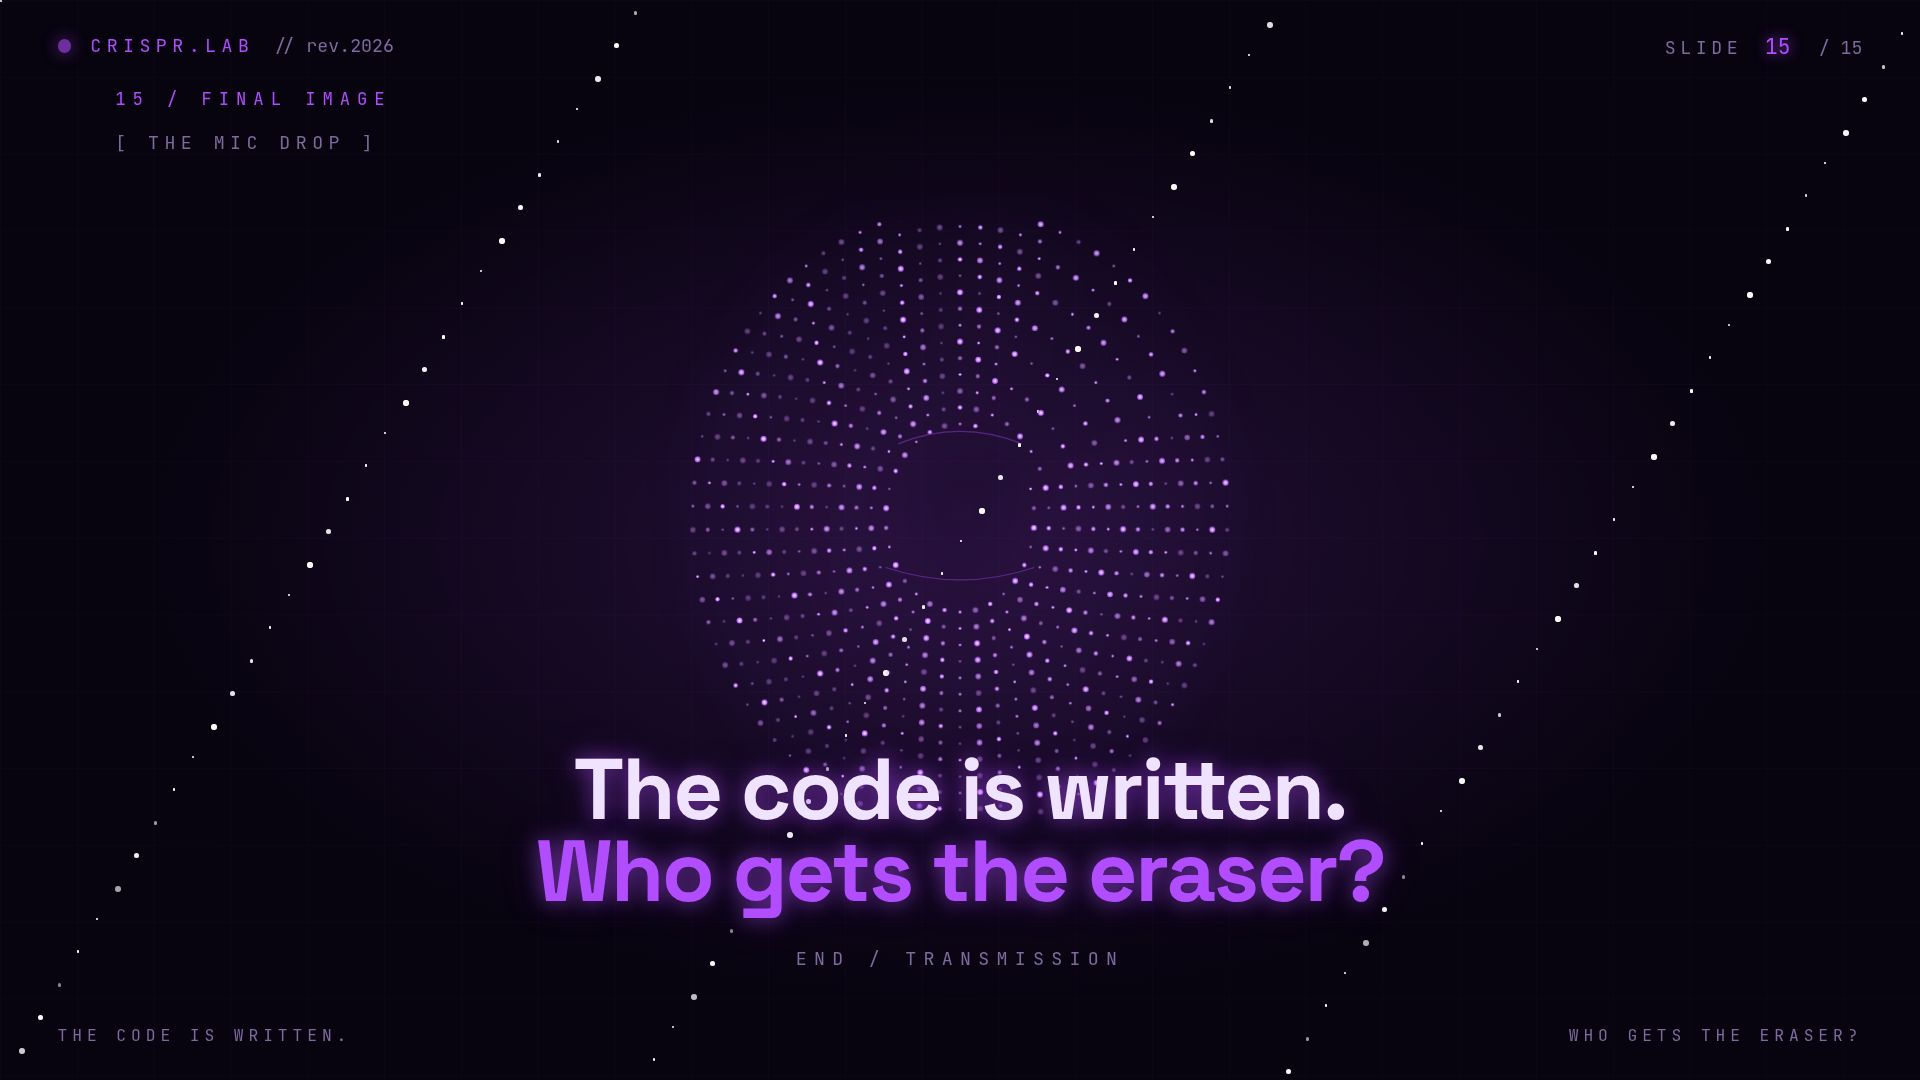
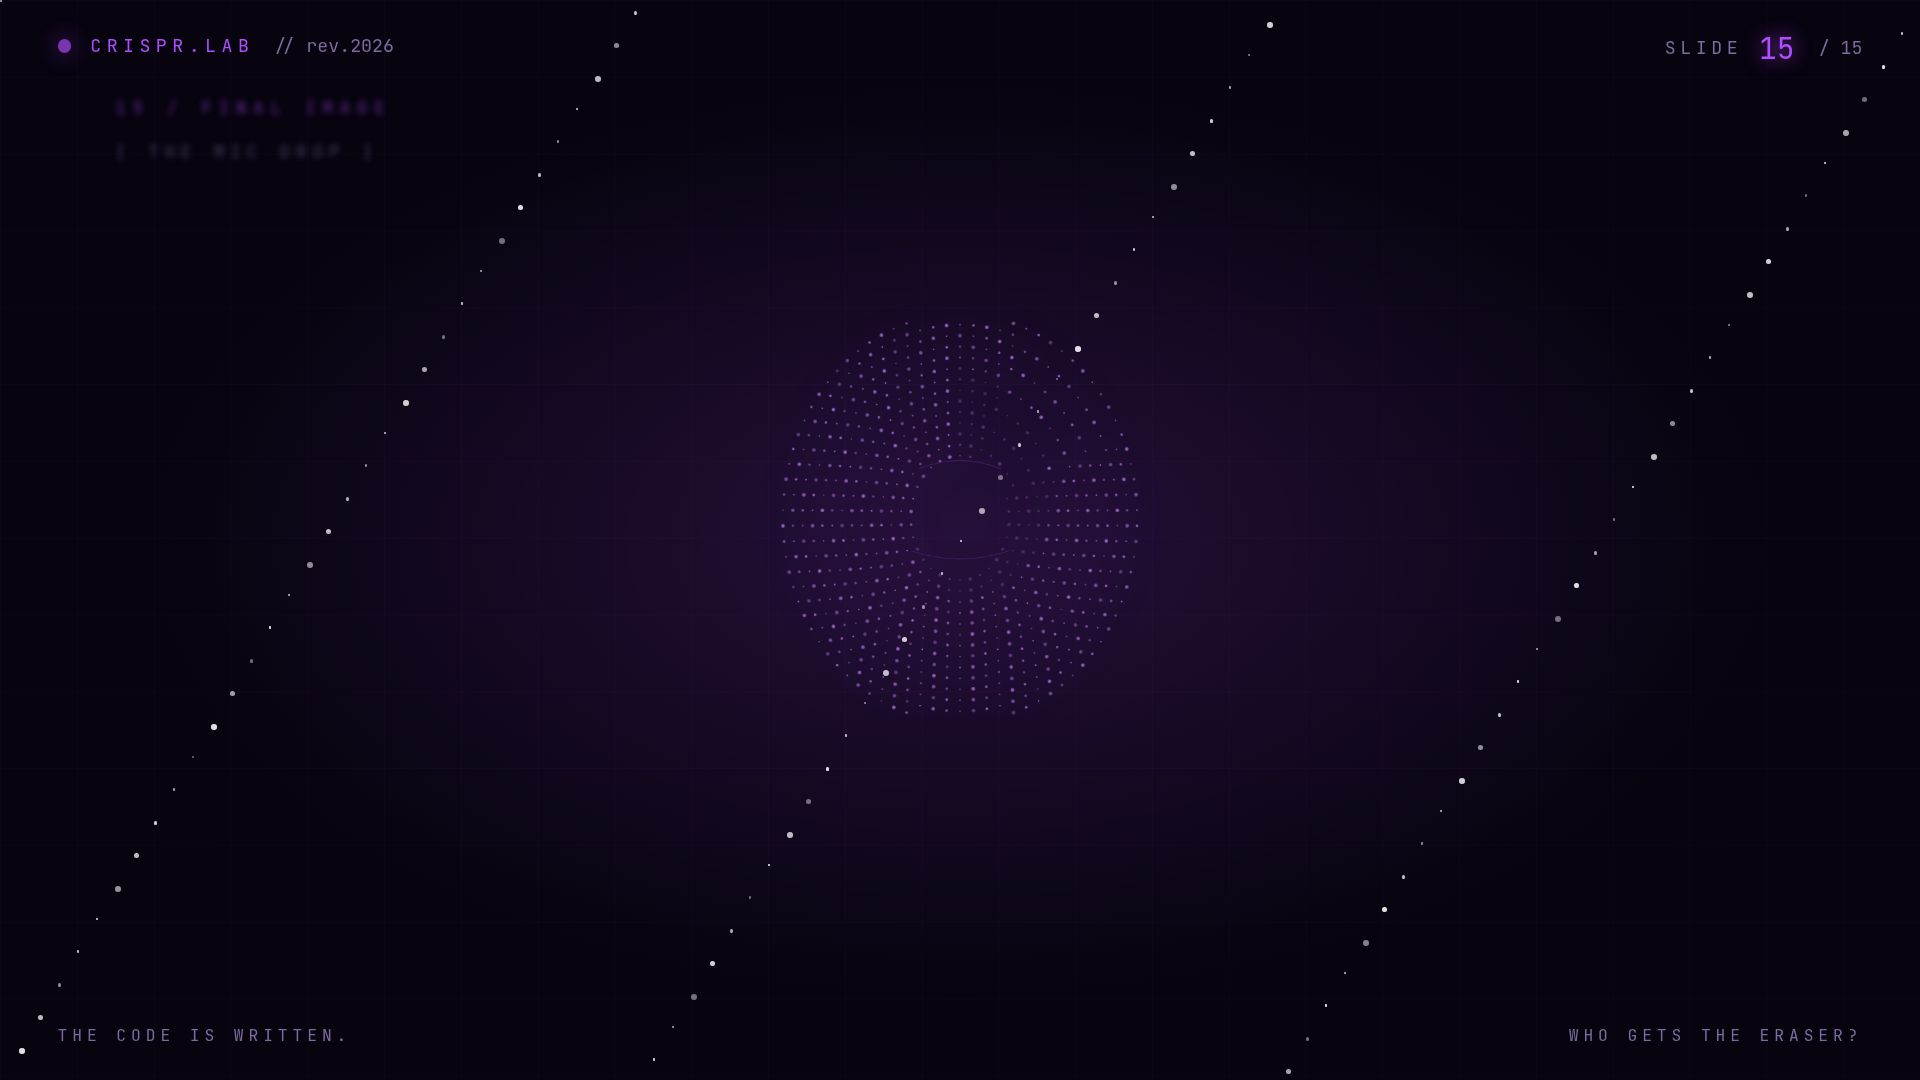
Update slide content and DNA animation on the first slide
Modify Slide01Title to enlarge and tilt the DNA helix, adjust text spacing, and update Slide15Thumbprint to change the closing message to "Abort Mission".

Replit-Commit-Author: Agent
Replit-Commit-Session-Id: 3b18fbcb-9325-42a6-a823-950d40ee5492
Replit-Commit-Checkpoint-Type: full_checkpoint
Replit-Commit-Event-Id: 24813337-b606-443b-b1ba-d3359bda2873
Replit-Commit-Screenshot-Url: https://storage.googleapis.com/screenshot-production-us-central1/f14ca61b-bc6a-46a7-8720-46ccaebc6cad/3b18fbcb-9325-42a6-a823-950d40ee5492/bCu6IQJ
Replit-Helium-Checkpoint-Created: true

diff --git a/artifacts/crispr-deck/src/pages/slides/Slide01Title.tsx b/artifacts/crispr-deck/src/pages/slides/Slide01Title.tsx
@@ -112,13 +112,21 @@ export default function Slide01Title() {
       <SlideChrome index="01" />
 
       <div
-        className="absolute right-[8vw] top-1/2 -translate-y-1/2 w-[42vw] h-[42vw]"
-        style={{ animation: "morph-in 1.2s cubic-bezier(.2,.7,.2,1) both" }}
+        className="absolute -right-[14vw] top-1/2 w-[78vw] h-[78vw] pointer-events-none"
+        style={{
+          transform: "translateY(-50%) rotate(22deg)",
+          transformOrigin: "60% 50%",
+        }}
       >
-        <DoubleHelix />
+        <div
+          className="w-full h-full"
+          style={{ animation: "morph-in 1.2s cubic-bezier(.2,.7,.2,1) both" }}
+        >
+          <DoubleHelix />
+        </div>
       </div>
 
-      <div className="absolute left-[6vw] top-1/2 -translate-y-1/2 max-w-[55vw] z-20">
+      <div className="absolute left-[6vw] top-1/2 -translate-y-1/2 max-w-[46vw] z-20">
         <div
           className="font-mono text-[0.95vw] text-primary tracking-[0.4em] uppercase mb-[3vh]"
           style={{ animation: "vanish-up 0.9s ease-out both" }}

diff --git a/artifacts/crispr-deck/src/pages/slides/Slide15Thumbprint.tsx b/artifacts/crispr-deck/src/pages/slides/Slide15Thumbprint.tsx
@@ -85,9 +85,8 @@ export default function Slide15Thumbprint() {
 
       <div className="absolute bottom-[10vh] left-[6vw] right-[6vw] z-20 text-center"
            style={{ animation: "vanish-up 1.4s ease-out 1.6s both" }}>
-        <div className="font-display font-bold text-[4.5vw] leading-[0.95] tracking-tight text-glow">
-          The code is written.<br />
-          <span className="text-primary">Who gets the eraser?</span>
+        <div className="font-display font-bold text-[6vw] leading-[0.95] tracking-tight text-glow uppercase">
+          <span className="text-primary">Abort</span> Mission
         </div>
         <div className="mt-[3vh] font-mono text-[0.95vw] text-muted uppercase tracking-[0.4em]">END / TRANSMISSION</div>
       </div>
